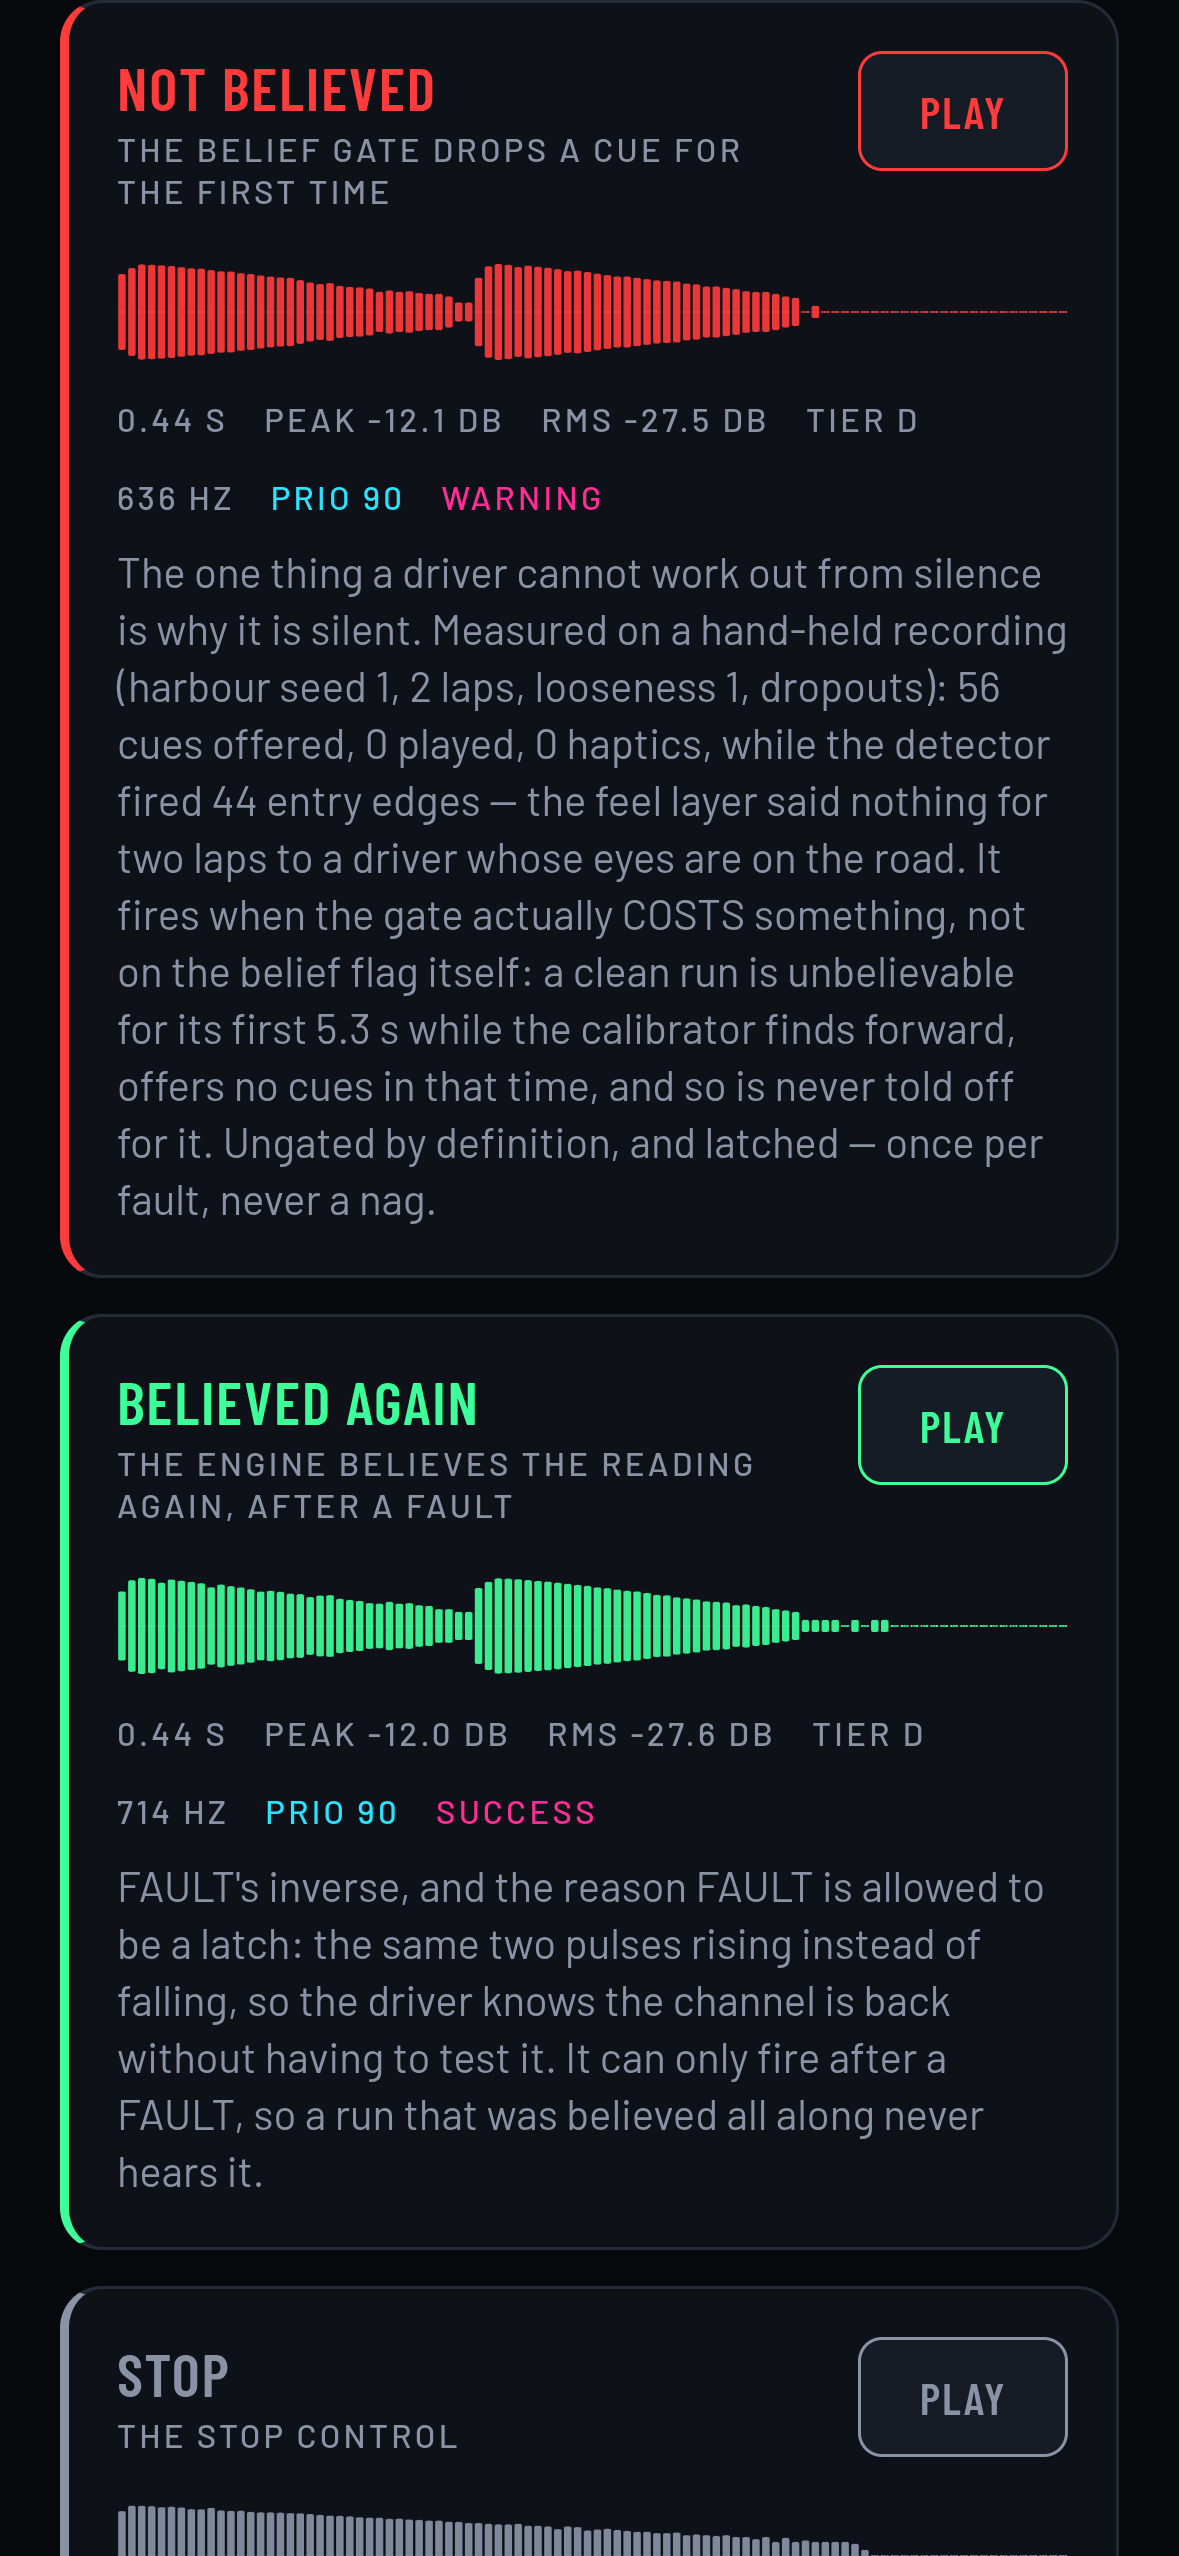
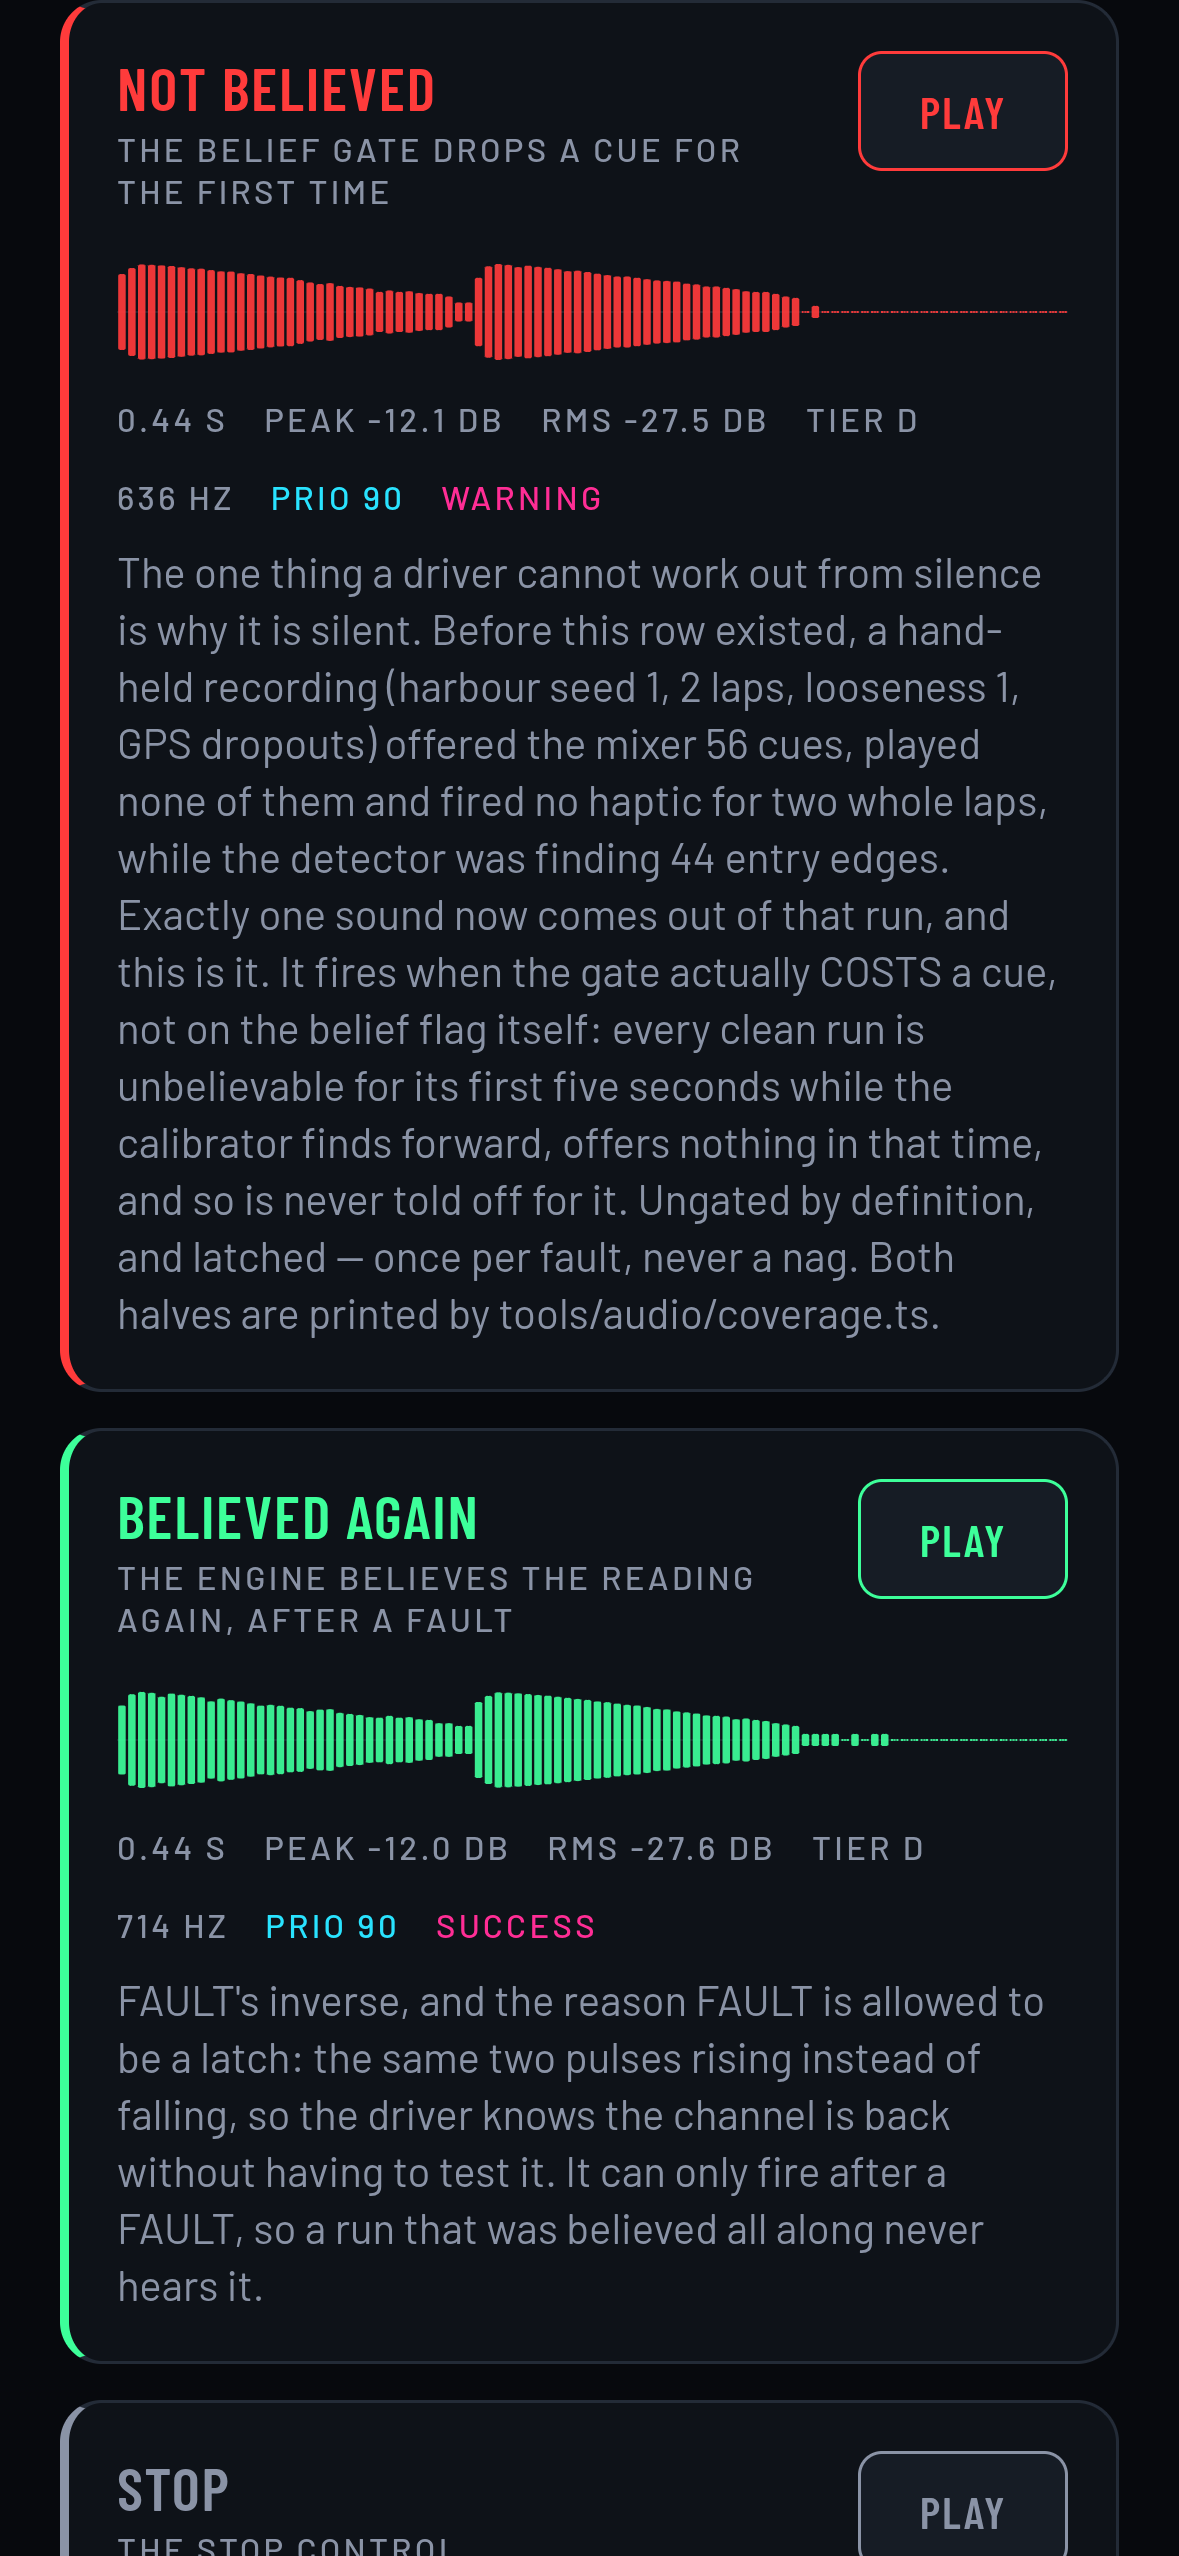
The bed's envelope is quoted from the mixer, and the fault row dates its own measurement
The lab stated 90 ms / 240 ms / 6 degrees and re-implemented the bed's own curve
in a helper; all four now come from the constants the mixer runs on. The exit
row's trigger and rationale quote EXIT_SETTLE_S. The fault row's "56 cues, 0
played" is marked as the measurement that produced the row rather than a claim
about the run today, which now plays exactly one clip.

Also corrects a comment in render.mjs that put the inaudible tail of `extreme`
at 0.29 s; it is 0.124 s, as bank.ts has always said.

62 of 62 light beats across nine runs land 0.200-0.213 s after an exit phase
edge, at least one per completed drift and never inside a flick.

Claude-Session: https://claude.ai/code/session_01Fx4r9pytcLBShy8ddyRfJV

diff --git a/src/ui/audio/bank.ts b/src/ui/audio/bank.ts
@@ -318,14 +318,14 @@ export const SOUND_BANK: readonly SoundSpec[] = [
     id: 'exit-edge',
     file: null,
     label: 'EXIT',
-    trigger: 'phase edge active → idle, held 0.20 s in case the car goes again',
+    trigger: `phase edge active → idle, held ${EXIT_SETTLE_S.toFixed(2)} s in case the car goes again`,
     tone: 'green',
     priority: 64,
     family: 'exit',
     minGapS: 0.45,
     gated: true,
     haptic: 'light',
-    why: 'The landing, felt. docs/DESIGN.md gives the exit a light haptic and no sound of its own — the bed\'s 240 ms release is the sound — and this is the row that finally delivers it. It has no clip on purpose: a driver with the phone on silent, or with sound off, still gets a beat at the end of every slide, which is the one moment of a drift that has no visual event either. It waits 200 ms so the dip in the middle of a flick cannot turn a manji into a stutter.',
+    why: `The landing, felt. docs/DESIGN.md gives the exit a light haptic and no sound of its own — the bed's 240 ms release is the sound — and this is the row that finally delivers it. It has no clip on purpose: a driver with the phone on silent, or with sound off, still gets a beat at the end of every slide, which is the one moment of a drift that has no visual event either. It waits ${Math.round(EXIT_SETTLE_S * 1000)} ms so the dip in the middle of a flick cannot turn a manji into a stutter.`,
   },
   {
     id: 'lap',
@@ -403,7 +403,7 @@ export const SOUND_BANK: readonly SoundSpec[] = [
     minGapS: 0.56,
     gated: false,
     haptic: 'warning',
-    why: 'The one thing a driver cannot work out from silence is why it is silent. Measured on a hand-held recording (harbour seed 1, 2 laps, looseness 1, dropouts): 56 cues offered, 0 played, 0 haptics, while the detector fired 44 entry edges — the feel layer said nothing for two laps to a driver whose eyes are on the road. It fires when the gate actually COSTS something, not on the belief flag itself: a clean run is unbelievable for its first 5.3 s while the calibrator finds forward, offers no cues in that time, and so is never told off for it. Ungated by definition, and latched — once per fault, never a nag.',
+    why: 'The one thing a driver cannot work out from silence is why it is silent. Before this row existed, a hand-held recording (harbour seed 1, 2 laps, looseness 1, GPS dropouts) offered the mixer 56 cues, played none of them and fired no haptic for two whole laps, while the detector was finding 44 entry edges. Exactly one sound now comes out of that run, and this is it. It fires when the gate actually COSTS a cue, not on the belief flag itself: every clean run is unbelievable for its first five seconds while the calibrator finds forward, offers nothing in that time, and so is never told off for it. Ungated by definition, and latched — once per fault, never a nag. Both halves are printed by tools/audio/coverage.ts.',
   },
   {
     id: 'recovered',

diff --git a/src/app/sound.tsx b/src/app/sound.tsx
@@ -26,7 +26,22 @@ import Svg, { Rect } from 'react-native-svg';
 import { useSettings } from '@/platform';
 import { AppText, alpha, colors, gutter, Micro, Panel, Segmented, Small, space, TopBar } from '@/ui';
 import { toneColor } from '@/ui/callouts';
-import { CLIP_MEASUREMENTS, DriftFeel, feelCue, SOUND_BANK, SOUND_SEQUENCES, TIER_TARGETS, useDriftFeel, type CueDecision, type SoundId, type SoundSpec } from '@/ui/audio';
+import {
+  BED_ATTACK_TAU,
+  BED_FLOOR_DEG,
+  BED_RELEASE_TAU,
+  BED_SPAN_DEG,
+  CLIP_MEASUREMENTS,
+  DriftFeel,
+  feelCue,
+  SOUND_BANK,
+  SOUND_SEQUENCES,
+  TIER_TARGETS,
+  useDriftFeel,
+  type CueDecision,
+  type SoundId,
+  type SoundSpec,
+} from '@/ui/audio';
 
 const ANGLES = [0, 12, 25, 40, 55];
 
@@ -221,8 +236,8 @@ export default function SoundLabScreen() {
               The slide
             </AppText>
             <Small>
-              Two loops cross-faded by |β| — dark tyre scrub at small angles, a brighter one with a squeal in it at big ones. It opens and closes on the drive display&apos;s own glow envelope (90 ms up, 240 ms
-              down) and shuts completely below 6°, so it can never become a drone.
+              Two loops cross-faded by |β| — dark tyre scrub at small angles, a brighter one with a squeal in it at big ones. It opens and closes on the drive display&apos;s own glow envelope ({Math.round(BED_ATTACK_TAU * 1000)} ms up,{' '}
+              {Math.round(BED_RELEASE_TAU * 1000)} ms down) and shuts completely below {BED_FLOOR_DEG}°, so it can never become a drone.
             </Small>
             <View style={styles.bedHead}>
               <AppText variant="display" numeric color="ember" style={styles.bedAngle}>
@@ -366,7 +381,7 @@ function sweepAngle(elapsedS: number): number {
 
 /** Invert the bed's own curve so the sweep can show the angle it is actually tracking. */
 function bedAngleFromGain(gain: number): number {
-  return gain <= 0 ? 0 : 6 + gain * 44;
+  return gain <= 0 ? 0 : BED_FLOOR_DEG + gain * BED_SPAN_DEG;
 }
 
 function ClipRow({ spec, onPlay }: { spec: SoundSpec; onPlay: () => void }) {

diff --git a/src/ui/audio/mixer.ts b/src/ui/audio/mixer.ts
@@ -137,12 +137,20 @@ export function trustIn(integrity: LiveFrame['integrity']): number {
   return degraded ? 0.65 : 1;
 }
 
-/** Bed envelope, deliberately the same two constants the drive display uses for the ember glow. */
-const BED_ATTACK_TAU = 0.09;
-const BED_RELEASE_TAU = 0.24;
+/**
+ * Bed envelope, deliberately the same two constants the drive display uses for the ember glow.
+ *
+ * EXPORTED, because the `/sound` lab draws the curve and describes it in words. It used to type
+ * "90 ms up, 240 ms down … shuts completely below 6°" into its own prose and re-implement
+ * `6 + gain * 44` in a helper, which is the same defect as any other threshold copied into a
+ * second file: it reads as a measurement and it would go stale the first time this envelope was
+ * tuned.
+ */
+export const BED_ATTACK_TAU = 0.09;
+export const BED_RELEASE_TAU = 0.24;
 /** |β| in degrees at which the bed opens and at which it is fully open — the HUD's glow curve. */
-const BED_FLOOR_DEG = 6;
-const BED_SPAN_DEG = 44;
+export const BED_FLOOR_DEG = 6;
+export const BED_SPAN_DEG = 44;
 /** |β| band across which the cross-fade travels from the dark layer to the bright one. */
 const BED_MIX_FLOOR_DEG = 10;
 const BED_MIX_SPAN_DEG = 38;

diff --git a/src/ui/audio/index.ts b/src/ui/audio/index.ts
@@ -21,7 +21,20 @@
  *   tools/audio/render.mjs       the synthesiser that produces assets/audio/*.wav
  */
 export * from './bank';
-export { DriftFeel, trustIn, type CueDecision, type CueOutcome, type FeelOptions, type FeelStats, type HapticPort, type SoundPort } from './mixer';
+export {
+  BED_ATTACK_TAU,
+  BED_FLOOR_DEG,
+  BED_RELEASE_TAU,
+  BED_SPAN_DEG,
+  DriftFeel,
+  trustIn,
+  type CueDecision,
+  type CueOutcome,
+  type FeelOptions,
+  type FeelStats,
+  type HapticPort,
+  type SoundPort,
+} from './mixer';
 export { driftFeel, feelCue, feelFrame, feelReset, useDriftFeel, type FeelStatus } from './useDriftFeel';
 export { CLIP_MEASUREMENTS, TIER_TARGETS, type ClipMeasurement } from './waveforms';
 export { SOUND_SEQUENCES, type SoundSequence } from './sequences';
